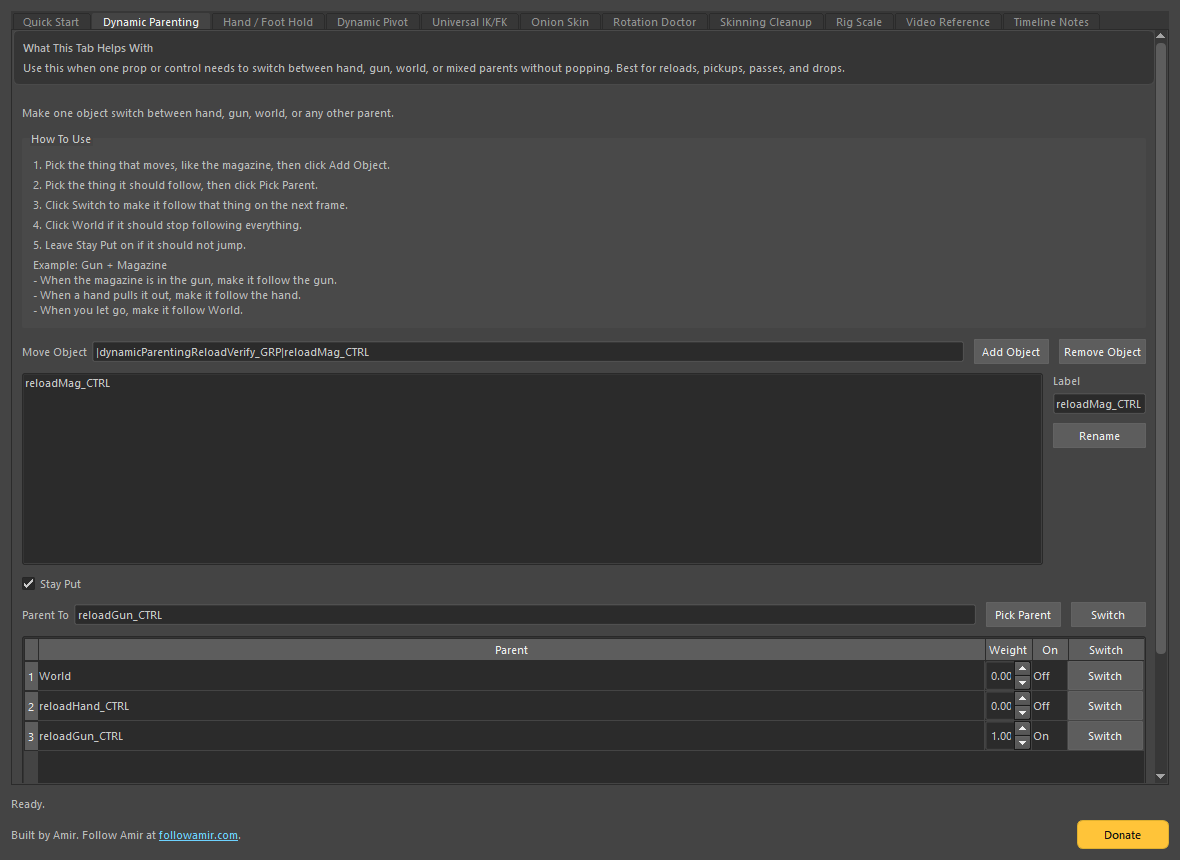
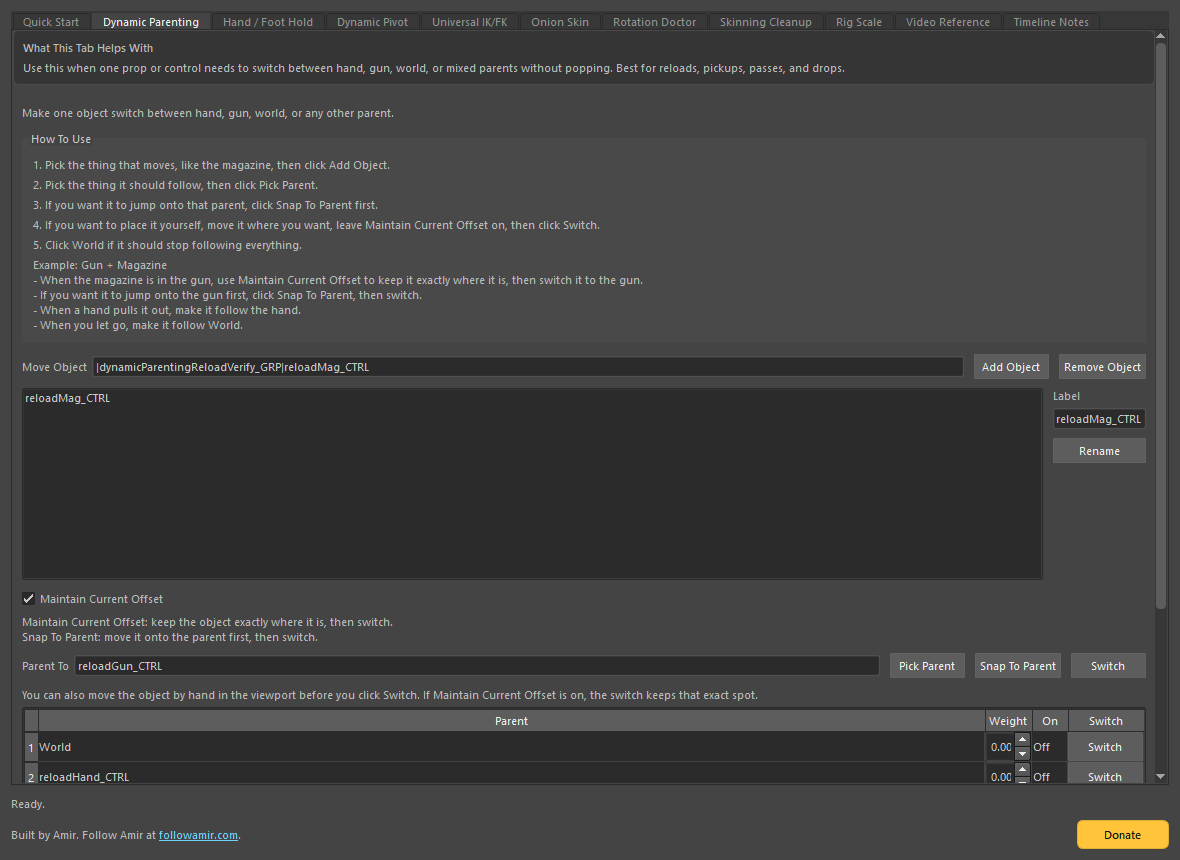
Add snap-first reparenting and explicit offset wording
Make Dynamic Parenting support the exact magazine-to-gun workflow more clearly by adding a Snap To Parent action before switching.

Carry the current visible pose into the next-frame reparent so snapped or manually positioned objects stay in the same place when the new parent turns on.

Rename Stay Put to Maintain Current Offset, rename the row switch action to Reparent to Selected Parent, and update the in-tab tutorial to explain both keep-current-offset and snap-first workflows in plain language.

Update README guidance, combined-tool guide copy, focused Dynamic Parenting live verification, combined live UI smoke, and open-scene functional verification to cover the new snap flow and wording.

Re-run Python syntax checks plus live Maya verification for the combined tool, Dynamic Parenting tab, and broader open-scene functional workflow before pushing.

Changed region(s): [[0.0, 0.6349, 1.0, 0.9372], [0.0, 0.2116, 0.9763, 0.5442]]

diff --git a/maya_dynamic_parenting_tool.py b/maya_dynamic_parenting_tool.py
@@ -562,6 +562,15 @@ class MayaDynamicParentingController(object):
                 return target
         return None
 
+    def _target_snap_matrix(self, target_entry):
+        if not target_entry:
+            return None
+        if target_entry.get("driver") and cmds.objExists(target_entry["driver"]):
+            return _matrix_from_node(target_entry["driver"])
+        if target_entry.get("locator") and cmds.objExists(target_entry["locator"]):
+            return _matrix_from_node(target_entry["locator"])
+        return None
+
     def _save_targets(self, setup, targets):
         serialized = []
         for target in targets:
@@ -631,7 +640,25 @@ class MayaDynamicParentingController(object):
             return False, "Pick a constrained object from the list first."
         cmds.setAttr(setup["setup_group"] + ".adpMaintainOffset", int(bool(enabled)))
         self.maintain_offset = bool(enabled)
-        return True, "Stay Put is now {0}.".format("on" if enabled else "off")
+        return True, "Maintain Current Offset is now {0}.".format("on" if enabled else "off")
+
+    def snap_to_target_id(self, target_id):
+        setup = self.current_setup()
+        if not setup:
+            return False, "Add or pick the constrained object first."
+        target_entry = self._target_entry_by_id(setup, target_id)
+        if not target_entry:
+            return False, "Pick a parent first."
+        if target_entry.get("is_world"):
+            return False, "World does not have a snap place. Move the object by hand, then switch to World."
+        target_matrix = self._target_snap_matrix(target_entry)
+        if target_matrix is None:
+            return False, "That parent is missing."
+        _set_world_matrix(setup["driven"], target_matrix)
+        return True, "Snapped {0} onto {1}. Move it if you want, then click Switch.".format(
+            setup["label"],
+            target_entry["label"],
+        )
 
     def current_weights(self, setup=None):
         setup = setup or self.current_setup()
@@ -667,7 +694,7 @@ class MayaDynamicParentingController(object):
                 names.append(target["label"])
         return names
 
-    def _reseed_target(self, setup, target_entry, maintain_offset):
+    def _reseed_target(self, setup, target_entry, maintain_offset, reference_matrix=None):
         locator_name = target_entry["locator"]
         if not cmds.objExists(locator_name):
             return
@@ -678,10 +705,10 @@ class MayaDynamicParentingController(object):
                 pass
             target_entry["follow_constraint"] = ""
         if target_entry["is_world"] or not target_entry["driver"]:
-            _set_world_matrix(locator_name, _matrix_from_node(setup["driven"]))
+            _set_world_matrix(locator_name, reference_matrix or _matrix_from_node(setup["driven"]))
             return
         if maintain_offset:
-            _set_world_matrix(locator_name, _matrix_from_node(setup["driven"]))
+            _set_world_matrix(locator_name, reference_matrix or _matrix_from_node(setup["driven"]))
         target_entry["follow_constraint"] = cmds.parentConstraint(
             target_entry["driver"],
             locator_name,
@@ -714,7 +741,7 @@ class MayaDynamicParentingController(object):
         _save_event_log(setup["setup_group"], event_log)
         setup["event_log"] = event_log
 
-    def _key_weight_map_on_frame(self, setup, weight_map, maintain_offset, frame_value, action_label=None, record_event=False, reseed_active=False):
+    def _key_weight_map_on_frame(self, setup, weight_map, maintain_offset, frame_value, action_label=None, record_event=False, reseed_active=False, reference_matrix=None):
         original_frame = float(cmds.currentTime(query=True))
         frame_value = float(frame_value)
         changed_time = abs(original_frame - frame_value) >= EPSILON
@@ -724,7 +751,7 @@ class MayaDynamicParentingController(object):
             if reseed_active:
                 for target in setup["targets"]:
                     if float(weight_map.get(target["id"], 0.0)) > EPSILON:
-                        self._reseed_target(setup, target, maintain_offset)
+                        self._reseed_target(setup, target, maintain_offset, reference_matrix=reference_matrix)
                 self._save_targets(setup, setup["targets"])
             constraint_weights = {}
             for target in setup["targets"]:
@@ -753,6 +780,7 @@ class MayaDynamicParentingController(object):
         sanitized, total = self._sanitize_weight_map(setup, weight_map)
         if total <= EPSILON:
             return False, "Turn at least one parent on before you key the weights."
+        reference_matrix = _matrix_from_node(setup["driven"])
         self._key_weight_map_on_frame(
             setup,
             sanitized,
@@ -761,6 +789,7 @@ class MayaDynamicParentingController(object):
             action_label=action_label,
             record_event=True,
             reseed_active=True,
+            reference_matrix=reference_matrix,
         )
         _set_blend_attr_values(setup["driven"], self._active_constraint_blend_values(setup, active=True), keyframe=True)
         return True, "Saved the parent weights on frame {0}.".format(_frame_display(cmds.currentTime(query=True)))
@@ -776,6 +805,7 @@ class MayaDynamicParentingController(object):
             return False, "Turn at least one parent on before you switch."
         current_frame = float(cmds.currentTime(query=True))
         target_frame = current_frame + DEFAULT_SWITCH_STEP
+        reference_matrix = _matrix_from_node(setup["driven"])
         current_weights = self.current_weights(setup)
         current_blend_values = _get_blend_attr_values(setup["driven"])
         self._key_weight_map_on_frame(
@@ -802,6 +832,7 @@ class MayaDynamicParentingController(object):
             action_label=action_label,
             record_event=True,
             reseed_active=True,
+            reference_matrix=reference_matrix,
         )
         original_frame = float(cmds.currentTime(query=True))
         cmds.currentTime(target_frame, edit=True)
@@ -850,6 +881,22 @@ class MayaDynamicParentingController(object):
             setup = self.current_setup()
             existing = self._target_entry_by_driver(setup, target_node)
         return self.parent_fully_to_target(existing["id"], action_label="switch")
+
+    def snap_pending_target(self):
+        setup = self.current_setup()
+        if not setup:
+            return False, "Add or pick the constrained object first."
+        target_node = self.pending_target_node
+        if not target_node or not cmds.objExists(target_node):
+            return False, "Pick the next hand, gun, prop, or object first."
+        existing = self._target_entry_by_driver(setup, target_node)
+        if not existing:
+            success, message = self.add_targets_from_nodes([target_node])
+            if not success:
+                return success, message
+            setup = self.current_setup()
+            existing = self._target_entry_by_driver(setup, target_node)
+        return self.snap_to_target_id(existing["id"])
 
     def reseed_active_weights(self):
         setup = self.current_setup()
@@ -946,7 +993,7 @@ class MayaDynamicParentingController(object):
         lines = [
             "Object: {0}".format(setup["label"]),
             "Real node: {0}".format(setup["driven"]),
-            "Stay Put: {0}".format("On" if setup["maintain_offset"] else "Off"),
+            "Maintain Current Offset: {0}".format("On" if setup["maintain_offset"] else "Off"),
             "Parents:",
         ]
         for target in setup["targets"]:
@@ -988,16 +1035,17 @@ if QtWidgets:
             for text in (
                 "1. Pick the thing that moves, like the magazine, then click Add Object.",
                 "2. Pick the thing it should follow, then click Pick Parent.",
-                "3. Click Switch to make it follow that thing on the next frame.",
-                "4. Click World if it should stop following everything.",
-                "5. Leave Stay Put on if it should not jump.",
+                "3. If you want it to jump onto that parent, click Snap To Parent first.",
+                "4. If you want to place it yourself, move it where you want, leave Maintain Current Offset on, then click Switch.",
+                "5. Click World if it should stop following everything.",
             ):
                 label = QtWidgets.QLabel(text)
                 label.setWordWrap(True)
                 step_layout.addWidget(label)
             example_label = QtWidgets.QLabel(
                 "Example: Gun + Magazine\n"
-                "- When the magazine is in the gun, make it follow the gun.\n"
+                "- When the magazine is in the gun, use Maintain Current Offset to keep it exactly where it is, then switch it to the gun.\n"
+                "- If you want it to jump onto the gun first, click Snap To Parent, then switch.\n"
                 "- When a hand pulls it out, make it follow the hand.\n"
                 "- When you let go, make it follow World."
             )
@@ -1032,10 +1080,16 @@ if QtWidgets:
             list_row.addLayout(name_column)
             main_layout.addLayout(list_row)
 
-            self.maintain_offset_check = QtWidgets.QCheckBox("Stay Put")
+            self.maintain_offset_check = QtWidgets.QCheckBox("Maintain Current Offset")
             self.maintain_offset_check.setChecked(True)
             self.maintain_offset_check.setToolTip("Leave this on if the object should stay where it is when the new parent turns on. Turn it off if it should snap.")
             main_layout.addWidget(self.maintain_offset_check)
+            keep_position_hint = QtWidgets.QLabel(
+                "Maintain Current Offset: keep the object exactly where it is, then switch.\n"
+                "Snap To Parent: move it onto the parent first, then switch."
+            )
+            keep_position_hint.setWordWrap(True)
+            main_layout.addWidget(keep_position_hint)
 
             target_row = QtWidgets.QHBoxLayout()
             self.target_line = QtWidgets.QLineEdit()
@@ -1043,6 +1097,8 @@ if QtWidgets:
             self.target_line.setPlaceholderText("Pick a hand, gun, or other thing to follow.")
             self.use_target_button = QtWidgets.QPushButton("Pick Parent")
             self.use_target_button.setToolTip("Take the thing you picked and put it into the Parent To box.")
+            self.snap_to_picked_button = QtWidgets.QPushButton("Snap To Parent")
+            self.snap_to_picked_button.setToolTip("Move the object onto this parent now. You can still adjust it before you switch.")
             self.parent_to_picked_button = QtWidgets.QPushButton("Switch")
             self.parent_to_picked_button.setToolTip("Keep the old parent on this frame, then turn this picked parent on next frame.")
             self.add_target_button = QtWidgets.QPushButton("Add Parent")
@@ -1050,8 +1106,16 @@ if QtWidgets:
             target_row.addWidget(QtWidgets.QLabel("Parent To"))
             target_row.addWidget(self.target_line, 1)
             target_row.addWidget(self.use_target_button)
+            target_row.addWidget(self.snap_to_picked_button)
             target_row.addWidget(self.parent_to_picked_button)
             main_layout.addLayout(target_row)
+
+            switch_hint = QtWidgets.QLabel(
+                "You can also move the object by hand in the viewport before you click Switch. "
+                "If Maintain Current Offset is on, the switch keeps that exact spot."
+            )
+            switch_hint.setWordWrap(True)
+            main_layout.addWidget(switch_hint)
 
             self.targets_table = QtWidgets.QTableWidget(0, 4)
             self.targets_table.setHorizontalHeaderLabels(["Parent", "Weight", "On", "Switch"])
@@ -1066,7 +1130,7 @@ if QtWidgets:
             main_layout.addWidget(self.targets_table, 1)
 
             action_row = QtWidgets.QHBoxLayout()
-            self.parent_to_row_button = QtWidgets.QPushButton("Switch Chosen")
+            self.parent_to_row_button = QtWidgets.QPushButton("Reparent to Selected Parent")
             self.parent_to_row_button.setToolTip("Use the parent row you picked and switch to it on the next frame.")
             self.parent_to_world_button = QtWidgets.QPushButton("World")
             self.parent_to_world_button.setToolTip("Stop following everything and switch to World on the next frame.")
@@ -1152,6 +1216,7 @@ if QtWidgets:
             self.rename_button.clicked.connect(self._rename_object)
             self.maintain_offset_check.toggled.connect(self._toggle_maintain_offset)
             self.use_target_button.clicked.connect(self._use_target)
+            self.snap_to_picked_button.clicked.connect(self._snap_to_picked_target)
             self.parent_to_picked_button.clicked.connect(self._parent_to_picked_target)
             self.add_target_button.clicked.connect(self._add_target)
             self.parent_to_row_button.clicked.connect(self._parent_to_row)
@@ -1286,6 +1351,15 @@ if QtWidgets:
                     self._set_status(message, success)
                     return
             success, message = self.controller.apply_pending_target()
+            self._set_status(message, success)
+
+        def _snap_to_picked_target(self):
+            if not self.controller.pending_target_node or not cmds.objExists(self.controller.pending_target_node):
+                success, message = self.controller.set_pending_target_from_selection()
+                if not success:
+                    self._set_status(message, success)
+                    return
+            success, message = self.controller.snap_pending_target()
             self._set_status(message, success)
 
         def _parent_to_target_id(self, target_id):

diff --git a/maya_dynamic_parenting_live_verify.py b/maya_dynamic_parenting_live_verify.py
@@ -80,10 +80,13 @@ try:
     first_blend_values = maya_dynamic_parenting_tool._get_blend_attr_values(mag)
 
     cmds.currentTime(6, edit=True)
-    before_switch = cmds.xform(mag, query=True, worldSpace=True, translation=True)
     cmds.select([mag, gun], replace=True)
     panel._use_target()
     second_pick_status = panel.status_label.text()
+    panel._snap_to_picked_target()
+    snap_status = panel.status_label.text()
+    snapped_position = cmds.xform(mag, query=True, worldSpace=True, translation=True)
+    before_switch = cmds.xform(mag, query=True, worldSpace=True, translation=True)
     panel._parent_to_picked_target()
     after_switch = cmds.xform(mag, query=True, worldSpace=True, translation=True)
     second_summary = panel.summary_box.toPlainText()
@@ -133,6 +136,7 @@ try:
         "ok": True,
         "add_object_text": panel.add_object_button.text(),
         "pick_parent_text": panel.use_target_button.text(),
+        "snap_text": panel.snap_to_picked_button.text(),
         "parent_to_picked_text": panel.parent_to_picked_button.text(),
         "save_parent_text": panel.add_target_button.text(),
         "row_switch_text": panel.parent_to_row_button.text(),
@@ -144,6 +148,8 @@ try:
         "clear_text": panel.clear_switches_button.text(),
         "first_pick_status": first_pick_status,
         "second_pick_status": second_pick_status,
+        "snap_status": snap_status,
+        "snapped_position": snapped_position,
         "first_driver": first_driver_line,
         "first_driver_line": first_driver_line,
         "first_status": first_status,
@@ -186,11 +192,13 @@ except Exception:
         raise AssertionError(json.dumps(result, indent=2))
     if result.get("pick_parent_text") != "Pick Parent":
         raise AssertionError(json.dumps(result, indent=2))
+    if result.get("snap_text") != "Snap To Parent":
+        raise AssertionError(json.dumps(result, indent=2))
     if result.get("parent_to_picked_text") != "Switch":
         raise AssertionError(json.dumps(result, indent=2))
     if result.get("save_parent_text") != "Add Parent":
         raise AssertionError(json.dumps(result, indent=2))
-    if result.get("row_switch_text") != "Switch Chosen":
+    if result.get("row_switch_text") != "Reparent to Selected Parent":
         raise AssertionError(json.dumps(result, indent=2))
     if result.get("world_text") != "World":
         raise AssertionError(json.dumps(result, indent=2))
@@ -214,6 +222,8 @@ except Exception:
     if not first_blend_values or any(abs(float(value) - 1.0) > 0.001 for value in first_blend_values.values()):
         raise AssertionError(json.dumps(result, indent=2))
     if "reloadGun_CTRL" not in (result.get("second_pick_status") or ""):
+        raise AssertionError(json.dumps(result, indent=2))
+    if "Snapped reloadMag_CTRL onto reloadGun_CTRL" not in (result.get("snap_status") or ""):
         raise AssertionError(json.dumps(result, indent=2))
     if "reloadGun_CTRL" not in (result.get("second_driver") or ""):
         raise AssertionError(json.dumps(result, indent=2))
@@ -263,6 +273,11 @@ except Exception:
     if len(before_switch) != 3 or len(after_switch) != 3:
         raise AssertionError(json.dumps(result, indent=2))
     if any(abs(float(before_switch[index]) - float(after_switch[index])) > 0.01 for index in range(3)):
+        raise AssertionError(json.dumps(result, indent=2))
+    snapped_position = result.get("snapped_position") or []
+    if len(snapped_position) != 3:
+        raise AssertionError(json.dumps(result, indent=2))
+    if any(abs(float(snapped_position[index]) - float(before_switch[index])) > 0.01 for index in range(3)):
         raise AssertionError(json.dumps(result, indent=2))
 
     print("MAYA_DYNAMIC_PARENTING_LIVE_VERIFY: PASS")

diff --git a/maya_anim_workflow_tools_live_ui_smoke.py b/maya_anim_workflow_tools_live_ui_smoke.py
@@ -164,6 +164,7 @@ try:
         "parenting_add_object_text": main_window.parenting_panel.add_object_button.text(),
         "parenting_remove_object_text": main_window.parenting_panel.remove_object_button.text(),
         "parenting_pick_parent_text": main_window.parenting_panel.use_target_button.text(),
+        "parenting_snap_text": main_window.parenting_panel.snap_to_picked_button.text(),
         "parenting_parent_to_picked_text": main_window.parenting_panel.parent_to_picked_button.text(),
         "parenting_add_parent_text": main_window.parenting_panel.add_target_button.text(),
         "parenting_parent_to_row_text": main_window.parenting_panel.parent_to_row_button.text(),
@@ -304,11 +305,13 @@ except Exception:
         raise AssertionError(json.dumps(payload, indent=2))
     if main.get("parenting_pick_parent_text") != "Pick Parent":
         raise AssertionError(json.dumps(payload, indent=2))
+    if main.get("parenting_snap_text") != "Snap To Parent":
+        raise AssertionError(json.dumps(payload, indent=2))
     if main.get("parenting_parent_to_picked_text") != "Switch":
         raise AssertionError(json.dumps(payload, indent=2))
     if main.get("parenting_add_parent_text") != "Add Parent":
         raise AssertionError(json.dumps(payload, indent=2))
-    if main.get("parenting_parent_to_row_text") != "Switch Chosen":
+    if main.get("parenting_parent_to_row_text") != "Reparent to Selected Parent":
         raise AssertionError(json.dumps(payload, indent=2))
     if main.get("parenting_parent_to_world_text") != "World":
         raise AssertionError(json.dumps(payload, indent=2))

diff --git a/maya_dynamic_parent_pivot.py b/maya_dynamic_parent_pivot.py
@@ -2225,10 +2225,10 @@ if QtWidgets:
                 "- Use this when a prop or control needs to switch between hand, gun, world, or mixed parents without popping.\n"
                 "- Pick the moving thing, like a magazine control, and click Add Object.\n"
                 "- Pick the thing it should follow and click Pick Parent.\n"
-                "- Click Switch to make it follow that thing on the next frame.\n"
+                "- Click Snap To Parent first if you want it to jump onto that parent.\n"
+                "- Or move it by hand, leave Maintain Current Offset on, and click Switch to keep that exact spot.\n"
                 "- Click World if it should stop following everything.\n"
-                "- Leave Stay Put on if it should not jump.\n"
-                "- Example: when the magazine is in the gun, make it follow the gun. When a hand pulls it out, make it follow the hand. When you let go, make it follow World.\n"
+                "- Example: when the magazine is in the gun, use Maintain Current Offset to keep it exactly where it is, then switch it to the gun. Or click Snap To Parent first if you want it to jump onto the gun before switching.\n"
                 "- Open More if you want to remember extra parents, blend two parents, fix a jump, or delete saved switches.\n\n"
                 "Hand / Foot Hold\n"
                 "- Use this when a planted hand or foot should stay in the same place on chosen world axes while the body keeps moving.\n"

diff --git a/maya_live_scene_functional_verify.py b/maya_live_scene_functional_verify.py
@@ -653,6 +653,7 @@ try:
         "embedded_tools": {{
             "parenting_add_object_text": anim_window.parenting_panel.add_object_button.text(),
             "parenting_pick_parent_text": anim_window.parenting_panel.use_target_button.text(),
+            "parenting_snap_text": anim_window.parenting_panel.snap_to_picked_button.text(),
             "parenting_parent_to_picked_text": anim_window.parenting_panel.parent_to_picked_button.text(),
             "parenting_world_text": anim_window.parenting_panel.parent_to_world_button.text(),
             "parenting_blend_text": anim_window.parenting_panel.apply_weights_button.text(),
@@ -827,6 +828,8 @@ result = namespace.get("result")
     if embedded_tools.get("parenting_add_object_text") != "Add Object":
         raise AssertionError(json.dumps(result, indent=2))
     if embedded_tools.get("parenting_pick_parent_text") != "Pick Parent":
+        raise AssertionError(json.dumps(result, indent=2))
+    if embedded_tools.get("parenting_snap_text") != "Snap To Parent":
         raise AssertionError(json.dumps(result, indent=2))
     if embedded_tools.get("parenting_parent_to_picked_text") != "Switch":
         raise AssertionError(json.dumps(result, indent=2))

diff --git a/README.md b/README.md
@@ -262,7 +262,8 @@ By default, the shelf installer targets `Amir's Scripts`, replaces the prior Ani
 ## Notes
 
 - Maya Dynamic Parenting is now a scene-backed setup rather than a bake-and-clear helper. You add the constrained object once, add any hand, gun, prop, or world choices it should follow, and those parent choices stay stored in the Maya scene.
-- The simple Dynamic Parenting flow is: click `Add Object`, click `Pick Parent`, then use `Switch`, `Switch Chosen`, or `World`.
+- The simple Dynamic Parenting flow is: click `Add Object`, click `Pick Parent`, then either click `Snap To Parent` or move the object by hand and use `Maintain Current Offset` before switching.
+- `Switch` keeps the current parent on this frame and turns the picked parent on next frame. `Reparent to Selected Parent` does the same thing for the row you picked in the parent list. `World` lets go on the next frame.
 - Regular Dynamic Parenting switches now key the current parent on the current frame and the new parent on the next frame, then move the timeline to that next frame so the switched state is obvious. `Blend Parents` inside `More` stays as the deliberate same-frame blend path.
 - The tab now keeps most of the optional parent-management and blend controls inside a collapsed `More` section so the default surface stays focused on the basic switch workflow.
 - Dynamic Parenting now includes a built-in gun-and-magazine example right in the tab, plus plain-language help for what the `More` buttons do.
